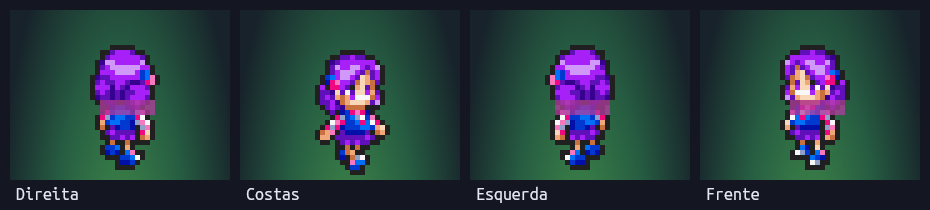
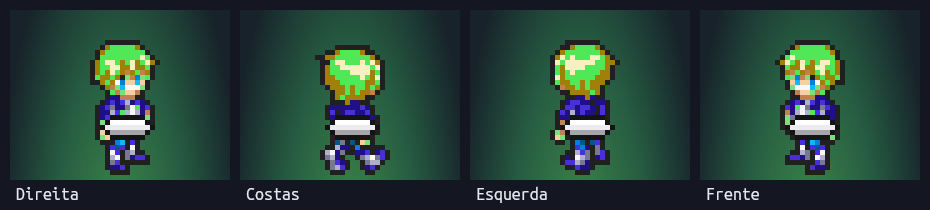
GS-003 world: capturas creator_v3.png e evolucao_escolha.png; presets v3 com as diagonais do rip DS mapeadas para as 4 direções (FILE_DIR) e criador mostrando só as cores de cabelo que mudam algo (8 de 12 presets vêm com variantes idênticas no disco)

diff --git a/projects/prototypes/GS-003/prototype/world/src/assets/tamer-presets.ts b/projects/prototypes/GS-003/prototype/world/src/assets/tamer-presets.ts
@@ -281,8 +281,17 @@ export function migrateLegacyLook(l: LegacyLook | Record<string, unknown>, prese
 // ---------- visual ----------
 
 /**
- * Visual do Tamer no contrato dos sprites do mundo (idle/walk desenhados em S/N/W/E, sem espelho), uma PNG por
- * quadro da cor de cabelo escolhida. A chave do atlas é `<dir>_<nn>`.
+ * Os rips de NPC do DW DS só têm as 4 diagonais. Nos presets v3, os arquivos `_S_` e `_N_` são as duas de frente
+ * (olhando para a esquerda e para a direita) e `_W_`/`_E_` as duas de costas (esquerda/direita) — conferido no olho
+ * nos 12 presets em 2026-11-09 [E]. O jogo anda em 4 direções: cada direção usa a diagonal mais próxima, girando
+ * (baixo → frente-esquerda, direita → frente-direita, cima → costas-direita, esquerda → costas-esquerda) [H].
+ * Se o game-art renomear os arquivos para as direções reais, basta trocar para o mapa identidade.
+ */
+export const FILE_DIR: Record<Dir4, Dir4> = { S: "S", E: "N", N: "E", W: "W" };
+
+/**
+ * Visual do Tamer no contrato dos sprites do mundo (idle/walk em S/N/W/E, sem espelho), uma PNG por quadro da cor
+ * de cabelo escolhida, com as diagonais do rip mapeadas por FILE_DIR. A chave do atlas é `<dir do mundo>_<nn>`.
  */
 export function presetVisual(look: TamerLook, presets: TamerPreset[] = loadPresets()): CreatureVisual | undefined {
   const p = presets.find((x) => x.id === look.preset);
@@ -292,16 +301,16 @@ export function presetVisual(look: TamerLook, presets: TamerPreset[] = loadPrese
   const frameUrls: Record<string, string> = {};
   const atlas: AtlasJson = { frames: {} };
   for (const d of DIRS4)
-    hair.frames[d]!.forEach((url, i) => {
+    hair.frames[FILE_DIR[d]]!.forEach((url, i) => {
       frameUrls[key(d, i)] = url;
       atlas.frames[key(d, i)] = { frame: { x: 0, y: 0, w: p.frame.w, h: p.frame.h } };
     });
-  const pick = (d: Dir4, i: number) => key(d, Math.min(i, hair.frames[d]!.length - 1));
+  const pick = (d: Dir4, i: number) => key(d, Math.min(i, hair.frames[FILE_DIR[d]]!.length - 1));
   const walk: Record<string, AnimFrame[]> = {};
   const idle: Record<string, AnimFrame[]> = {};
   for (const d of DIRS4) {
-    walk[d] = p.walk[d].map((f) => ({ atlasKey: pick(d, f.i), durationMs: f.ms }));
-    idle[d] = [{ atlasKey: pick(d, p.idle[d].i), durationMs: p.idle[d].ms }];
+    walk[d] = p.walk[FILE_DIR[d]].map((f) => ({ atlasKey: pick(d, f.i), durationMs: f.ms }));
+    idle[d] = [{ atlasKey: pick(d, p.idle[FILE_DIR[d]].i), durationMs: p.idle[FILE_DIR[d]].ms }];
   }
   const manifest: CreatureManifest = {
     id: `tamer:${lookKey(look)}`,
@@ -316,6 +325,28 @@ export function presetVisual(look: TamerLook, presets: TamerPreset[] = loadPrese
     walkSpeedPxPerSec: p.walkSpeedPxPerSec,
   };
   return { manifest, atlas, sheetUrl: frameUrls[key("S", 0)], frameUrls };
+}
+
+/**
+ * Só as cores que mudam alguma coisa: uma cor cujo quadro de frente é idêntico ao de outra já listada (a canônica
+ * primeiro) sai da lista. Em 2026-11-09, 8 dos 12 presets vinham com as 8 variantes byte a byte iguais [E] (recolor
+ * do game-art não pegou o cabelo); o criador não mostra botão que não faz nada. `sig` = assinatura dos pixels.
+ */
+export function distinctHairs(p: TamerPreset, sig: (url: string) => string | undefined): TamerPreset {
+  const order = [...p.hairs].sort((a, b) => Number(b.id === p.defaultHair) - Number(a.id === p.defaultHair));
+  const seen = new Set<string>();
+  const keep = new Set<string>();
+  for (const h of order) {
+    const k = sig(h.frames.S![0]);
+    if (k === undefined) {
+      keep.add(h.id); // sem imagem para comparar: mantém
+      continue;
+    }
+    if (seen.has(k)) continue;
+    seen.add(k);
+    keep.add(h.id);
+  }
+  return { ...p, hairs: p.hairs.filter((h) => keep.has(h.id)) };
 }
 
 /** Todas as URLs de um look (para pré-carregar). */

diff --git a/projects/prototypes/GS-003/prototype/world/src/main.ts b/projects/prototypes/GS-003/prototype/world/src/main.ts
@@ -5,7 +5,7 @@ import { xpToNext } from "@game/src/sim/formulas";
 import { imageUrlsOf, loadCharacterCatalog, loadCreatureCatalog, pickTamers, loadSizeTable } from "./assets/creatures";
 import { loadSceneTiles, packSummary, usedKeys } from "./assets/scene-tiles";
 import { clockFromParams, formatClock, GameClock } from "./render/daynight";
-import { botLook, defaultLook, loadPresets, lookKey, presetVisual, urlsForLook, type TamerLook } from "./assets/tamer-presets";
+import { botLook, defaultLook, distinctHairs, loadPresets, lookKey, presetVisual, urlsForLook, type TamerLook } from "./assets/tamer-presets";
 import { TamerCreator, type PreviewDir } from "./ui/creator";
 import { applyOffline, applySave, captureSave, offlineBalance, offlineSeed, type OfflineReport } from "./save/offline";
 import { browserStorage, loadFromStorage, SAVE_KEY, saveToStorage, STARTING_INVENTORY, type LoadResult, type SaveData, type SettingsData } from "./save/save";
@@ -70,8 +70,22 @@ const CREATOR = params.get("criador") !== "0";
  */
 async function chooseLook(images: ImageStore, initial: TamerLook = defaultLook()): Promise<TamerLook> {
   if (!CREATOR) return initial;
-  const presets = loadPresets();
-  await images.loadAll([...presets.flatMap((p) => urlsForLook({ name: "", preset: p.id, hair: p.defaultHair })), ...urlsForLook(initial)]);
+  await images.loadAll([...loadPresets().flatMap((p) => [...urlsForLook({ name: "", preset: p.id, hair: p.defaultHair }), ...p.hairs.map((h) => h.frames.S![0])]), ...urlsForLook(initial)]);
+  // Cores de cabelo que não mudam nada (variantes idênticas no disco) ficam fora do criador.
+  const sig = (url: string) => {
+    const img = images.get(url);
+    if (!img) return undefined;
+    const c = browserCanvasFactory(img.width, img.height);
+    const g = c.getContext("2d", { willReadFrequently: true })!;
+    g.drawImage(img as CanvasImageSource, 0, 0);
+    const d = g.getImageData(0, 0, img.width, img.height).data;
+    let h = 2166136261;
+    for (let i = 0; i < d.length; i++) h = Math.imul(h ^ d[i], 16777619);
+    return `${img.width}x${img.height}:${h >>> 0}`;
+  };
+  const presets = loadPresets().map((p) => distinctHairs(p, sig));
+  const dup = presets.filter((p) => p.hairs.length < 8).map((p) => `${p.id}:${p.hairs.length}`);
+  if (dup.length) console.warn("Tamers v3: cores de cabelo idênticas no disco (só as distintas aparecem no criador):", dup.join(" "));
   const cache = new Map<string, CreatureVisual | undefined>();
   const visualOf = (l: TamerLook) => {
     const k = lookKey(l);

diff --git a/projects/prototypes/GS-003/prototype/world/tests/tamer-presets.test.ts b/projects/prototypes/GS-003/prototype/world/tests/tamer-presets.test.ts
@@ -3,7 +3,7 @@
 
 import { existsSync } from "node:fs";
 import { describe, expect, it } from "vitest";
-import { botLook, buildPresets, defaultLook, DIRS4, loadPresets, lookKey, migrateLegacyLook, normalizeLook, presetVisual, randomLook } from "../src/assets/tamer-presets";
+import { botLook, buildPresets, distinctHairs, defaultLook, DIRS4, loadPresets, lookKey, migrateLegacyLook, normalizeLook, presetVisual, randomLook } from "../src/assets/tamer-presets";
 import { deserialize, SAVE_VERSION } from "../src/save/save";
 
 const urlToPath = (url: string) => {
@@ -33,6 +33,10 @@ describe("Tamers v3 (presets TAMER-0003..0014)", () => {
     expect(v.manifest.dimensions).toMatchObject({ frameW: 42, frameH: 33 });
     expect(v.manifest.name).toBe("Ana");
     expect(v.frameUrls!.W_02).toContain("recolor_verde/TAMER-0007_verde_W_02.png");
+    // os rips do DS são diagonais: direita = frente-direita (arquivo _N_), cima = costas-direita (arquivo _E_)
+    expect(v.frameUrls!.E_00).toContain("recolor_verde/TAMER-0007_verde_N_00.png");
+    expect(v.frameUrls!.N_01).toContain("recolor_verde/TAMER-0007_verde_E_01.png");
+    expect(v.frameUrls!.S_00).toContain("recolor_verde/TAMER-0007_verde_S_00.png");
     expect(v.atlas.frames.E_01.frame).toEqual({ x: 0, y: 0, w: 42, h: 33 });
   });
 
@@ -86,5 +90,17 @@ describe("Tamers v3 (presets TAMER-0003..0014)", () => {
     expect(ps).toHaveLength(1);
     expect(ps[0]).toMatchObject({ id: "TAMER-0050", label: "Novo", defaultHair: "verde" });
     expect(ps[0].hairs.map((h) => h.id)).toEqual(["verde"]);
+  });
+
+  it("distinctHairs: tira as cores com o quadro idêntico a outra (a canônica fica); sem imagem, mantém", () => {
+    const p = loadPresets().find((x) => x.id === "TAMER-0003")!;
+    const same = distinctHairs(p, () => "igual");
+    expect(same.hairs.map((h) => h.id)).toEqual(["ruivo"]);
+    const all = distinctHairs(p, (u) => u);
+    expect(all.hairs).toHaveLength(8);
+    const two = distinctHairs(p, (u) => (u.includes("recolor_azul") ? "b" : u.includes("recolor_ruivo") ? "a" : undefined));
+    expect(two.hairs.map((h) => h.id).sort()).toEqual(["azul", "castanho", "loiro", "prateado", "preto", "roxo", "ruivo", "verde"]);
+    const dedup = distinctHairs(p, (u) => (u.includes("recolor_azul") || u.includes("recolor_verde") ? "x" : u));
+    expect(dedup.hairs.map((h) => h.id)).toEqual(["preto", "castanho", "loiro", "ruivo", "azul", "roxo", "prateado"]);
   });
 });

diff --git a/projects/prototypes/GS-003/prototype/world/src/ui/creator.ts b/projects/prototypes/GS-003/prototype/world/src/ui/creator.ts
@@ -95,6 +95,7 @@ export class TamerCreator {
             <fieldset class="cr-group swatches" data-group="hair">
               <legend>Cor do cabelo <i data-testid="cr-hair-n"></i></legend>
               <div class="cr-opts" data-testid="cr-hairs"></div>
+              <em class="cr-note" data-testid="cr-hair-note" hidden>Este personagem ainda só tem a cor original de cabelo.</em>
             </fieldset>
           </div>
         </div>
@@ -162,6 +163,7 @@ export class TamerCreator {
         .map((h) => `<button type="button" data-hair="${esc(h.id)}" title="${esc(HAIR_PT[h.id] ?? h.id)}${h.id === p!.defaultHair ? " (original)" : ""}" aria-pressed="false"><b style="background:${esc(h.hex)}"></b><span class="sr">${esc(HAIR_PT[h.id] ?? h.id)}</span></button>`)
         .join("");
       this.el.querySelector('[data-testid="cr-hair-n"]')!.textContent = String(p?.hairs.length ?? 0);
+      this.el.querySelector<HTMLElement>('[data-testid="cr-hair-note"]')!.hidden = (p?.hairs.length ?? 0) > 1;
     }
     for (const b of hairs.querySelectorAll<HTMLButtonElement>("[data-hair]")) b.setAttribute("aria-pressed", String(b.dataset.hair === this.look.hair));
     const err = this.el.querySelector<HTMLElement>('[data-testid="cr-err"]')!;

diff --git a/projects/prototypes/GS-003/prototype/world/tests/creator.test.ts b/projects/prototypes/GS-003/prototype/world/tests/creator.test.ts
@@ -47,6 +47,17 @@ describe("criador de Tamer v3 (pt-BR)", () => {
     expect(c.look).toMatchObject({ preset: "TAMER-0013", hair: "prateado" });
   });
 
+  it("preset com uma cor só (variantes idênticas no disco): sem swatches extras e com aviso", async () => {
+    const { distinctHairs, loadPresets } = await import("../src/assets/tamer-presets");
+    const presets = loadPresets().map((p) => (p.id === "TAMER-0003" ? distinctHairs(p, () => "igual") : p));
+    const c = new TamerCreator(document.body, { onConfirm: vi.fn(), presets });
+    expect(c.el.querySelectorAll("[data-hair]")).toHaveLength(1);
+    expect(c.el.querySelector<HTMLElement>('[data-testid="cr-hair-note"]')!.hidden).toBe(false);
+    c.setPreset("TAMER-0013");
+    expect(c.el.querySelectorAll("[data-hair]")).toHaveLength(8);
+    expect(c.el.querySelector<HTMLElement>('[data-testid="cr-hair-note"]')!.hidden).toBe(true);
+  });
+
   it("Aleatório troca preset/cor e mantém o nome", () => {
     const { c, el } = mount();
     const seen = new Set<string>();

diff --git a/projects/prototypes/GS-003/prototype/world/src/style.css b/projects/prototypes/GS-003/prototype/world/src/style.css
@@ -2314,6 +2314,16 @@ body {
   color: var(--ui-dim);
   line-height: 1.1;
 }
+.creator .cr-note {
+  display: block;
+  margin-top: 4px;
+  font-size: 11px;
+  font-style: normal;
+  color: var(--ui-dim);
+}
+.creator .cr-note[hidden] {
+  display: none;
+}
 .creator .cr-preset[aria-pressed="true"] small {
   color: #e8d9a0;
 }

diff --git a/projects/prototypes/GS-003/prototype/world/README.md b/projects/prototypes/GS-003/prototype/world/README.md
@@ -52,6 +52,15 @@ Pedido do fundador: o criador ainda mostrava os Tamers modulares v2, que ele rep
     - O build não muda.
   - **Se aparecer versão antiga, Ctrl+Shift+R** (recarregar sem cache). Se ainda assim estiver velha, feche o `npm run dev` antigo (a 5174 precisa estar livre) e rode de novo.
 
+- **Capturas finais e correções nos presets v3** (item 4):
+  - `docs/screens/creator_v3.png` (Xeno, cabelo verde, `ONLY=creator`), mais `creator_tela.png`, `creator_preview_4dir.png` e `creator_no_mundo*.png`.
+  - `docs/screens/evolucao_escolha.png` (`ONLY=evolve`), mais `evolucao_escolha_requisito.png`, `evolucao_preferencia.png` e `evolucao_depois.png`.
+  - **Defeitos nos assets dos presets, achados nas capturas** [E, conferido no disco em 2026-11-09; os arquivos não foram alterados, são do game-art]:
+    1. **Direções:** os rips de NPC do DS só têm as 4 diagonais. Os arquivos `_S_`/`_N_` são as duas de frente (esquerda/direita) e `_W_`/`_E_` as duas de costas. O jogo mapeia isso em `FILE_DIR` (`tamer-presets.ts`): baixo → frente-esquerda, direita → frente-direita, cima → costas-direita, esquerda → costas-esquerda [H]. Se o game-art renomear os arquivos, basta voltar ao mapa identidade.
+    2. **Cor do cabelo:** em **8 dos 12 presets** (0003, 0004, 0005, 0006, 0008, 0009, 0011, 0012), as 8 variantes `recolor_<cor>` são **byte a byte iguais**. O criador compara os pixels do quadro de frente e só mostra as cores que mudam algo; com uma cor só, aparece "Este personagem ainda só tem a cor original de cabelo".
+       - Em 0007, 0010 e 0014, o recolor muda a **roupa** em vez do cabelo.
+       - Só o **0013 (Xeno)** troca o cabelo de fato.
+
 ## Inicial, Digimon selvagens, troca de mapa e telas secundárias (2026-11-09)
 
 Pedido do fundador: "ir criando as telas secundárias e outros Digimon para testar, e algo para trocar de mapa". Um commit por item: `8a02f1a` (QA R1), `b1b17ba` (inicial), `fdba15f` (selvagens), `b29fe28` (troca de mapa), `36198a5` (telas).
